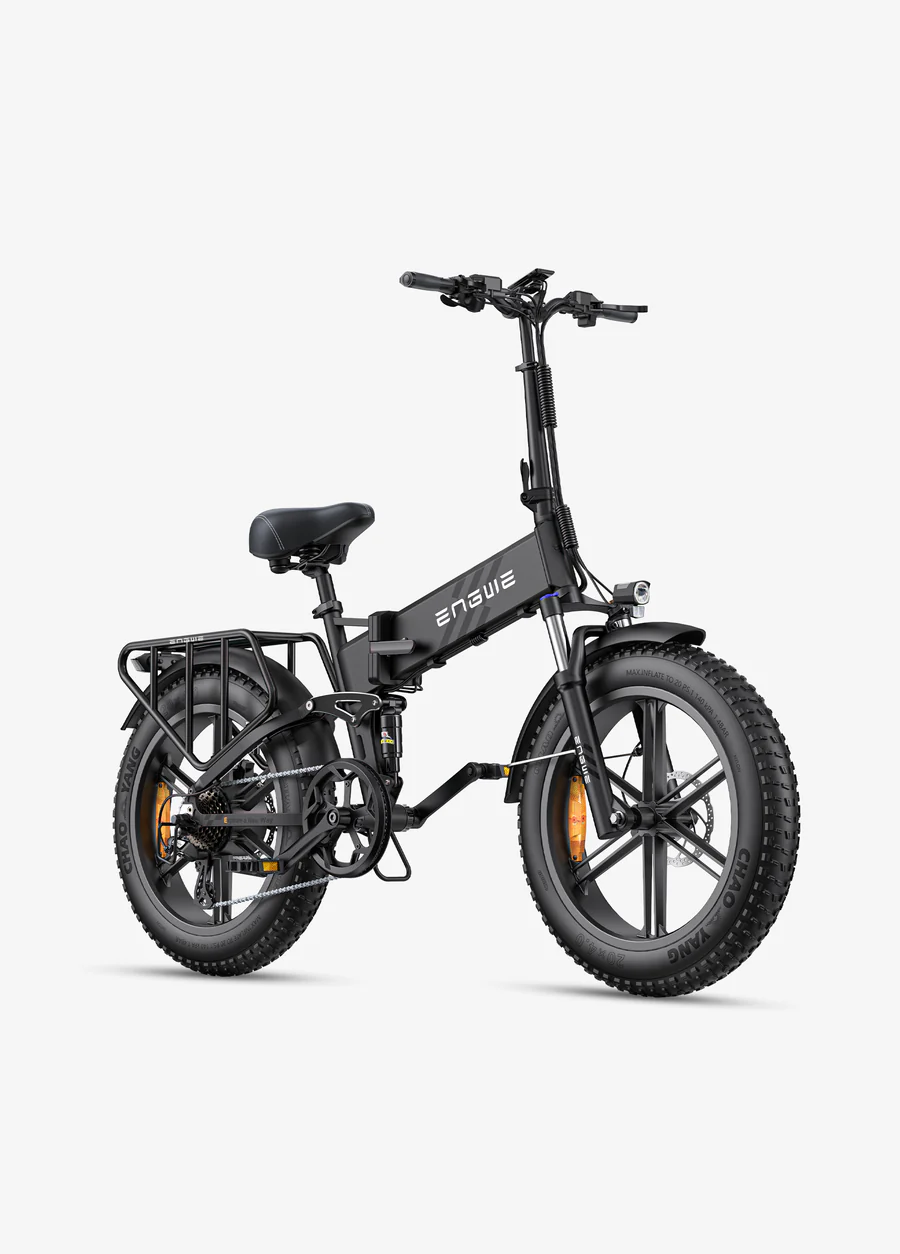
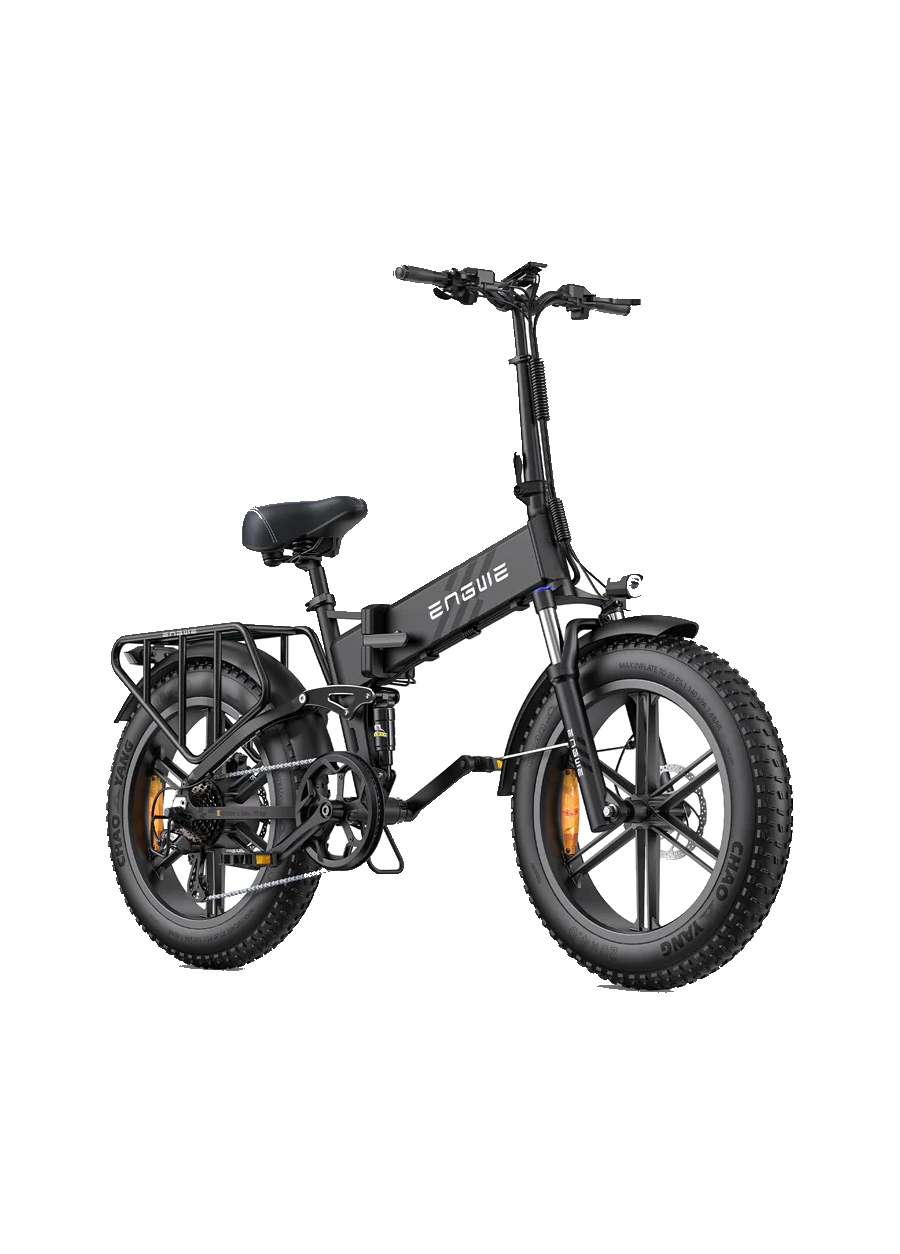
feat: real photos for the 3 ENGWE models + fix Engine Pro 2.0 white bg
Process the supplied ENGWE product shots into on-brand, dark-ready assets:

  - Heroes (1000x1000 transparent png+webp) for engwe-ep-2-boost, engwe-m1
    and engwe-engine-pro-3 — background + floor shadow removed, black
    colourway, so the "photo coming soon" placeholder no longer shows.
  - Galleries: EP-2 Boost gets a rear angle + battery/disc-brake/tail-light
    detail shots; M1 and Engine Pro 3.0 each get rear + side angles.
  - Fix the existing ENGWE Engine Pro 2.0 gallery: the two studio shots
    (Engine_Pro_2_front/side) were on a light-grey background — re-cut them
    to clean transparency so they sit on the dark detail page like the rest.

All cutouts verified on the real card background (no halo, no residual
shadow, frames intact). bikeModels.ts gallery arrays updated to match.

Changed region(s): [[0.0933, 0.1866, 0.9022, 0.8086]]

diff --git a/src/data/bikeModels.ts b/src/data/bikeModels.ts
@@ -406,7 +406,12 @@ export const bikeModels: BikeModel[] = [
     brand: "ENGWE",
     tagline: "Folding fat-tyre e-bike that's easy to start on",
     img: "/assets/models/engwe-ep-2-boost.webp",
-    gallery: [],
+    gallery: [
+      "/assets/gallery/engwe-ep-2-boost/rear.webp",
+      "/assets/gallery/engwe-ep-2-boost/battery.webp",
+      "/assets/gallery/engwe-ep-2-boost/brake.webp",
+      "/assets/gallery/engwe-ep-2-boost/taillight.webp",
+    ],
     badge: { text: "Easy start", variant: "light" },
     pills: ["Folding", "Fat tyres 20×4.0", "Easy start"],
     fromDay: 5.9,
@@ -451,7 +456,10 @@ export const bikeModels: BikeModel[] = [
     brand: "ENGWE",
     tagline: "Moto-style e-bike for long daily shifts",
     img: "/assets/models/engwe-m1.webp",
-    gallery: [],
+    gallery: [
+      "/assets/gallery/engwe-m1/rear.webp",
+      "/assets/gallery/engwe-m1/side.webp",
+    ],
     badge: { text: "Most popular", variant: "popular" },
     pills: ["Moto-style", "Hydraulic brakes", "Dual suspension"],
     fromDay: 5.9,
@@ -496,7 +504,10 @@ export const bikeModels: BikeModel[] = [
     brand: "ENGWE",
     tagline: "Premium full-suspension folder",
     img: "/assets/models/engwe-engine-pro-3.webp",
-    gallery: [],
+    gallery: [
+      "/assets/gallery/engwe-engine-pro-3/rear.webp",
+      "/assets/gallery/engwe-engine-pro-3/side.webp",
+    ],
     badge: { text: "High demand", variant: "cargo" },
     pills: ["Full suspension", "Hydraulic brakes", "GPS anti-theft"],
     fromDay: 5.9,